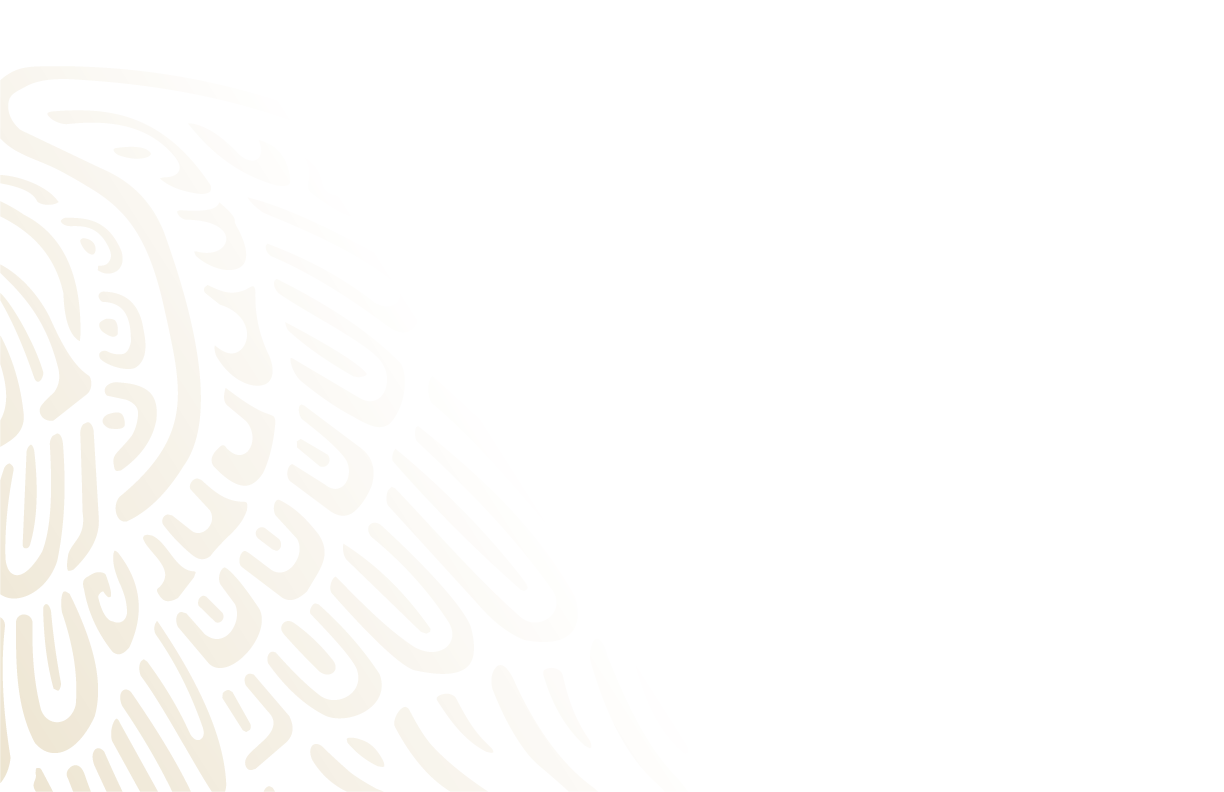
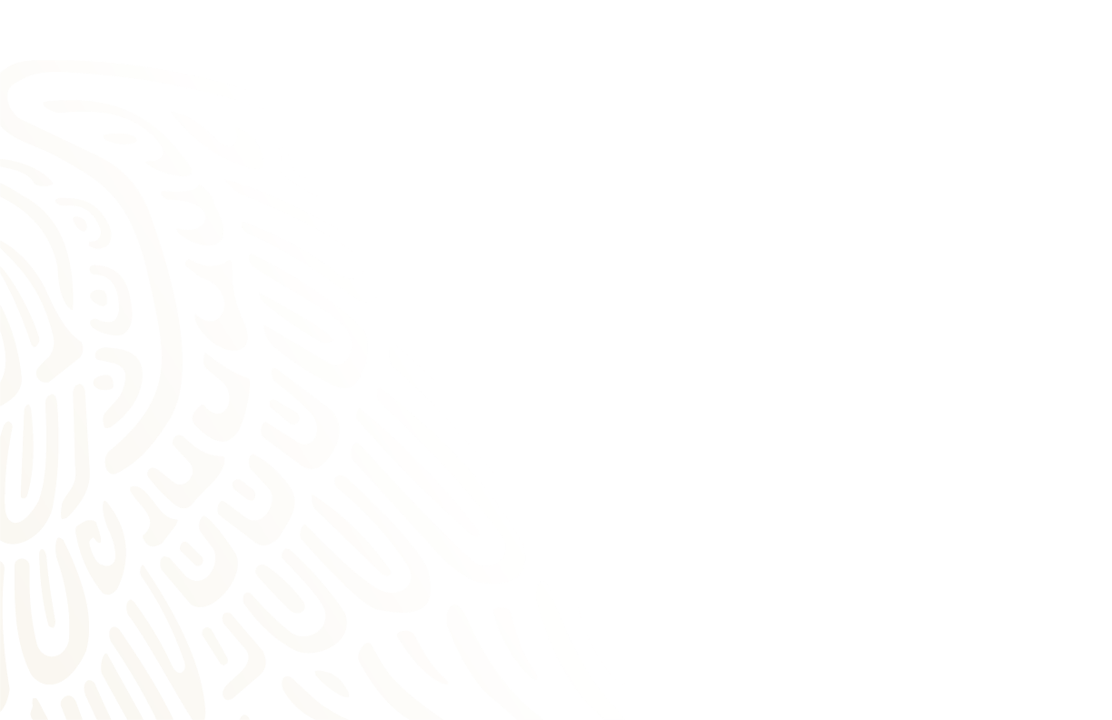
colores
se cambio la paleta de colores

Changed region(s): [[0.0, 0.7333, 0.1223, 1.0]]

diff --git a/_pgbackup/index_1613415925.html b/_pgbackup/index_1613415925.html
@@ -13,12 +13,12 @@
         <link href="style.css" rel="stylesheet">
         <link rel="stylesheet" href="blocks.css">
     </head>
-    <body style="background-image: url('fondo_01.png'); background-color: rgba(64, 0, 25);" class="background-left-top">
+    <body style="background-image: url('fondo_01.png'); background-color: rgba(162, 131, 47, 0.6);">
         <!-- Bootstrap core JavaScript
     ================================================== -->
         <!-- Placed at the end of the document so the pages load faster -->
         <header> 
-            <nav class="bg-white navbar navbar-expand-lg navbar-light py-4 py-lg-2 text-uppercase"> 
+            <nav class="navbar navbar-dark navbar-expand-lg py-4 py-lg-2 text-uppercase" style="background: linear-gradient(90deg, #000000, #434343);"> 
                 <div class="container"> 
                     <img src="titulo_logo_01.png" width="80" style="margin-right: 10px;"> 
                     <img src="titulo_texto_01.png" width="170" style="margin-top: 5px;">
@@ -91,70 +91,8 @@ function autoSlide() {
         }
     }
     autoSlide();
-	</script>
-            <style>
-			*{
-				margin: 0;
-				padding: 0;
-			}
-			[type=radio] {
-				display: none;
-			}
-			#s{
-				height: 40vw;
-				position: relative;
-				perspective: 1000px;
-				transform-style: preserve-3d;
-			}
-			#s label{
-				margin: auto;
-				width: 70%;
-				height: 100%;
-				border-radius: 4px;
-				position: absolute;
-				left: 0;
-				right: 0;
-				cursor: pointer;
-				transition: transform 0.5s ease;
-			}
-			#s1:checked ~ #slide4, #s2:checked ~ #slide5,
-			#s3:checked ~ #slide1, #s4:checked ~ #slide2,
-			#s5:checked ~ #slide3{
-				box-shadow: 0 1px 4px 0 rgba(0,0,0,.37);
-				transform: translate3d(-30%,0,-200px);
-			}
-			#s1:checked ~ #slide5, #s2:checked ~ #slide1,
-			#s3:checked ~ #slide2, #s4:checked ~ #slide3,
-			#s5:checked ~ #slide4{
-				box-shadow: 0 6px 10px 0 rgba(0,0,0,.3), 0 2px 2px 0 rgba(0,0,0,.2);
-				transform: translate3d(-15%,0,-100px);
-			}
-			#s1:checked ~ #slide1, #s2:checked ~ #slide2,
-			#s3:checked ~ #slide3, #s4:checked ~ #slide4,
-			#s5:checked ~ #slide5{
-				box-shadow: 0 13px 25px 0 rgba(0,0,0,.3), 0 11px 7px 0 rgba(0,0,0,.19);
-				transform: translate3d(0,0,0);
-			}
-			#s1:checked ~ #slide2, #s2:checked ~ #slide3,
-			#s3:checked ~ #slide4, #s4:checked ~ #slide5,
-			#s5:checked ~ #slide1{
-				box-shadow: 0 6px 10px 0 rgba(0,0,0,.3), 0 2px 2px 0 rgba(0,0,0,.2);
-				transform: translate3d(15%,0,-100px);
-			}
-			#s1:checked ~ #slide3, #s2:checked ~ #slide4,
-			#s3:checked ~ #slide5, #s4:checked ~ #slide1,
-			#s5:checked ~ #slide2{
-				box-shadow: 0 1px 4px 0 rgba(0,0,0,.37);
-				transform: translate3d(30%,0,-200px);
-			}
-            
-            #slide1 { background: #00BCD4; } 
-            #slide2 { background: #4CAF50; } 
-            #slide3 { background: #CDDC39; } 
-            #slide4 { background: #FFC107; } 
-            #slide5 { background: #FF5722; }
-            
-		</style>             
+</script>
+            <style>* { margin: 0; padding: 0; } [type=radio] { display: none; } #s { height: 35vw; position: relative; perspective: 1000px; transform-style: preserve-3d; } #s label { margin: auto; width: 70%; height: 100%; border-radius: 4px; position: absolute; left: 0; right: 0; cursor: pointer; transition: transform 1s ease; } #s1:checked ~ #slide4, #s2:checked ~ #slide5, #s3:checked ~ #slide1, #s4:checked ~ #slide2, #s5:checked ~ #slide3 { box-shadow: 0 1px 4px 0 rgba(0,0,0,.37); transform: translate3d(-30%,0,-200px); } #s1:checked ~ #slide5, #s2:checked ~ #slide1, #s3:checked ~ #slide2, #s4:checked ~ #slide3, #s5:checked ~ #slide4 { box-shadow: 0 6px 10px 0 rgba(0,0,0,.3), 0 2px 2px 0 rgba(0,0,0,.2); transform: translate3d(-15%,0,-100px); } #s1:checked ~ #slide1, #s2:checked ~ #slide2, #s3:checked ~ #slide3, #s4:checked ~ #slide4, #s5:checked ~ #slide5 { box-shadow: 0 13px 25px 0 rgba(0,0,0,.3), 0 11px 7px 0 rgba(0,0,0,.19); transform: translate3d(0,0,0); } #s1:checked ~ #slide2, #s2:checked ~ #slide3, #s3:checked ~ #slide4, #s4:checked ~ #slide5, #s5:checked ~ #slide1 { box-shadow: 0 6px 10px 0 rgba(0,0,0,.3), 0 2px 2px 0 rgba(0,0,0,.2); transform: translate3d(15%,0,-100px); } #s1:checked ~ #slide3, #s2:checked ~ #slide4, #s3:checked ~ #slide5, #s4:checked ~ #slide1, #s5:checked ~ #slide2 { box-shadow: 0 1px 4px 0 rgba(0,0,0,.37); transform: translate3d(30%,0,-200px); } #slide1 { background: #00BCD4; } #slide2 { background: #4CAF50; } #slide3 { background: #CDDC39; } #slide4 { background: #FFC107; } #slide5 { background: #FF5722; }</style>
         </section>
         <br/>
         <section data-pg-name="contenido incrustado">
@@ -172,10 +110,46 @@ function autoSlide() {
         <br/>
         <div id="panels1" role="tablist" data-pg-name="contenido colapsado"> 
             <div class="card"> 
-                <div class="card-header" role="tab"> 
-                    <h5 class="mb-0 text-center"> <a class="collapsed font-weight-bold h4" data-toggle="collapse" href="#collapse2" aria-expanded="false" aria-controls="collapse2" style="color: #400019;">MAS CONTENIDO.</a> </h5> 
+                <div class="card-header" role="tab" style="background: linear-gradient(90deg, #093028, #237A57);"> 
+                    <h5 class="mb-0 text-center"> <a class="collapsed h4 text-white" data-toggle="collapse" href="#collapse2" aria-expanded="false" aria-controls="collapse2">Mas contenido.</a> </h5> 
                 </div>                 
                 <div id="collapse2" class="collapse" role="tabpanel" aria-labelledby="headingTwo" data-parent="#panels1"> 
+                    <section class="bg-light pb-5 pt-5 text-secondary" style="background: linear-gradient(90deg, #ADA996, #F2F2F2, #DBDBDB, #EAEAEA);">
+                        <div class="container"> 
+                            <div class="justify-content-center row"> 
+                                <div class="col-lg-4 col-md-6 pb-3 pt-3"> 
+                                    <div class="bg-white d-flex flex-column h-100 shadow"> 
+                                        <a href="#" class="d-block"><img src="https://images.unsplash.com/photo-1508672019048-805c876b67e2?ixid=MXwyMDkyMnwwfDF8c2VhcmNofDJ8fHRyYXZlbHxlbnwwfHx8&ixlib=rb-1.2.1q=85&fm=jpg&crop=faces&cs=srgb&w=700&h=480&fit=crop" class="img-fluid w-100"></a>
+                                        <div class="p-3"> 
+                                            <a href="#" class="text-dark text-decoration-none"><h5 class="font-weight-bold">Relaxing and observing the mountain reflection in a lake</h5></a>
+                                            <h6 class="font-weight-bold small text-secondary">10 August 2020</h6> 
+                                            <p class="mb-0">Amet minim mollit non deserunt ullamco est sit aliqua dolor do amet sint. Velit officia consequat duis enim velit mollit. Exercitation veniam consequat sunt nostrud amet.</p> 
+                                        </div>                                         
+                                    </div>                                     
+                                </div>                                 
+                                <div class="col-lg-4 col-md-6 pb-3 pt-3"> 
+                                    <div class="bg-white d-flex flex-column h-100 shadow"> 
+                                        <a href="#" class="d-block"><img src="https://images.unsplash.com/photo-1499363536502-87642509e31b?ixid=MXwyMDkyMnwwfDF8c2VhcmNofDE2fHx0cmF2ZWx8ZW58MHx8fA&ixlib=rb-1.2.1q=85&fm=jpg&crop=faces&cs=srgb&w=700&h=480&fit=crop" class="img-fluid w-100"></a>
+                                        <div class="p-3"> 
+                                            <a href="#" class="text-dark text-decoration-none"><h5 class="font-weight-bold">How to enjoy running your business?</h5></a>
+                                            <h6 class="font-weight-bold small text-secondary">10 August 2020</h6> 
+                                            <p class="mb-0">Amet minim mollit non deserunt ullamco est sit aliqua dolor do amet sint. Velit officia consequat duis enim velit mollit. Exercitation veniam consequat sunt nostrud amet.</p> 
+                                        </div>                                         
+                                    </div>                                     
+                                </div>                                 
+                                <div class="col-lg-4 col-md-6 pb-3 pt-3"> 
+                                    <div class="bg-white d-flex flex-column h-100 shadow"> 
+                                        <a href="#" class="d-block"><img src="https://images.unsplash.com/photo-1471506480208-91b3a4cc78be?ixid=MXwyMDkyMnwwfDF8c2VhcmNofDUyfHx0cmF2ZWx8ZW58MHx8fA&ixlib=rb-1.2.1q=85&fm=jpg&crop=faces&cs=srgb&w=700&h=480&fit=crop" class="img-fluid w-100"></a>
+                                        <div class="p-3"> 
+                                            <a href="#" class="text-dark text-decoration-none"><h5 class="font-weight-bold">How to notice colors when cycling over a mountain pass?</h5></a>
+                                            <h6 class="font-weight-bold small text-secondary">10 August 2020</h6> 
+                                            <p class="mb-0">Amet minim mollit non deserunt ullamco est sit aliqua dolor do amet sint. Velit officia consequat duis enim velit mollit. Exercitation veniam consequat sunt nostrud amet.</p> 
+                                        </div>                                         
+                                    </div>                                     
+                                </div>                                 
+                            </div>                             
+                        </div>                         
+                    </section>
                     <section class="bg-light pb-5 pt-5 text-secondary" style="background: linear-gradient(90deg, #ADA996, #F2F2F2, #DBDBDB, #EAEAEA);">
                         <div class="container"> 
                             <div class="justify-content-center row"> 
@@ -251,7 +225,7 @@ function autoSlide() {
                 </div>                 
             </div>             
         </div>
-        <footer class="bg-dark pt-5 text-white" style="background: -webkit-linear-gradient(90deg, rgb(255, 255, 255) 0.414938%, rgb(255, 255, 255) 2%, rgb(147, 35, 78) 24.4813%, rgb(106, 8, 46) 66.9087%, rgb(64, 0, 25) 100%);"> 
+        <footer class="bg-dark pt-5 text-white" style="background: linear-gradient(90deg, #093028, #237A57);"> 
             <div class="container"> 
                 <div class="row"> 
                     <div class="col-xl-4 mr-auto py-3"> 
